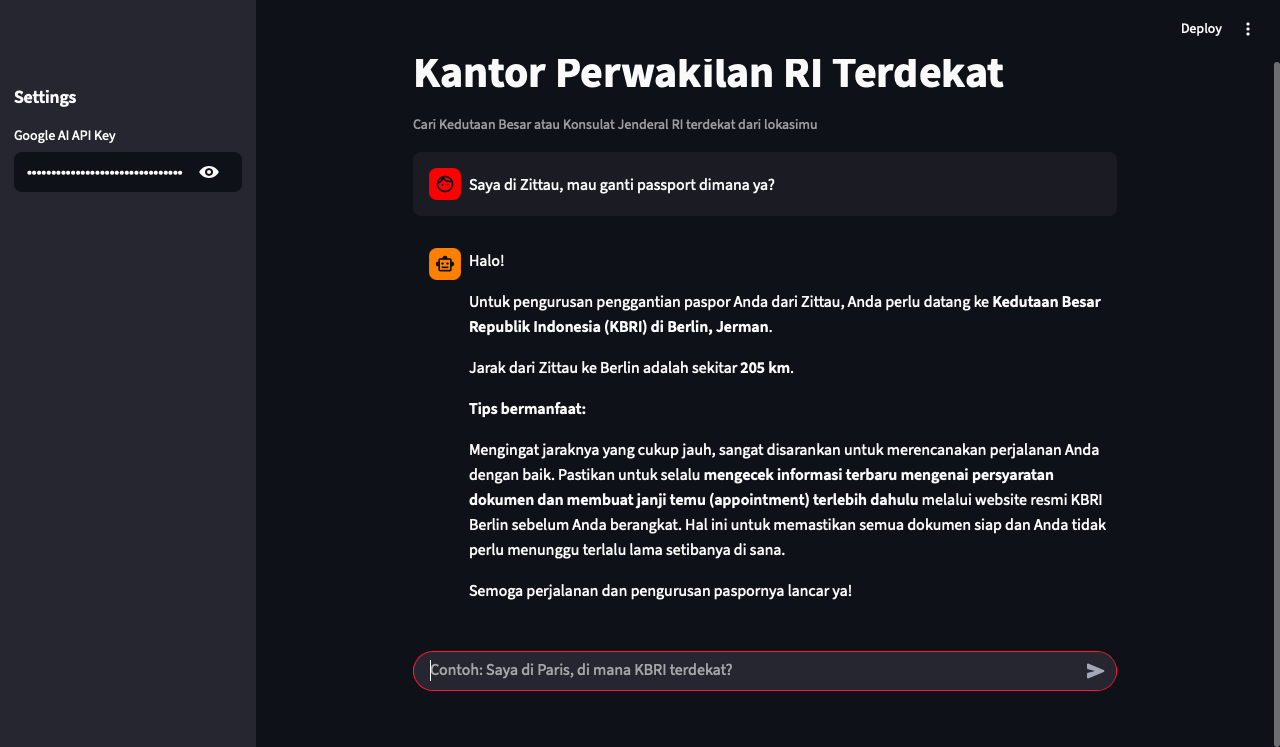
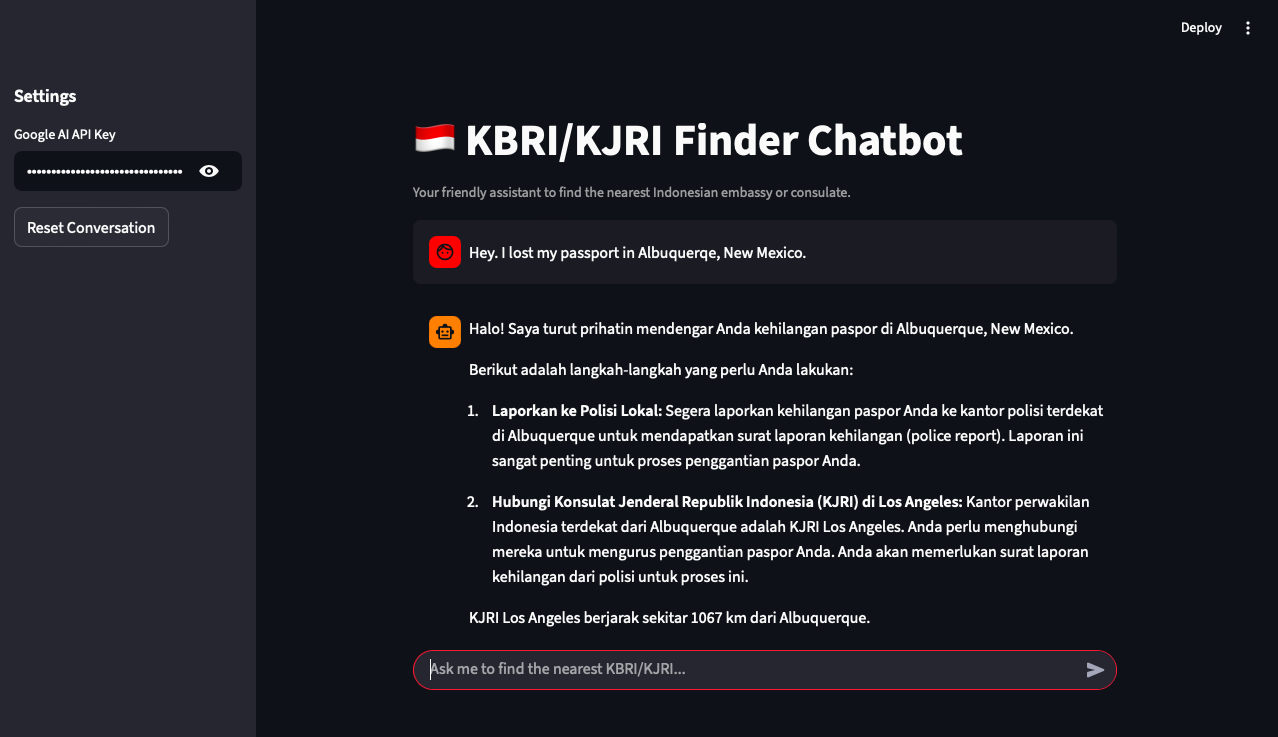
feat: add more data and fix bugs

diff --git a/streamlit_chat_app.py b/streamlit_chat_app.py
@@ -2,33 +2,23 @@
 import streamlit as st
 import pandas as pd
 from math import radians, sin, cos, sqrt, atan2
-from google import genai
+from langchain_google_genai import ChatGoogleGenerativeAI
+from langgraph.prebuilt import create_react_agent
+from langchain_core.messages import HumanMessage, AIMessage
+from langchain_core.tools import tool
 
 # --- 1. Page Configuration and Title ---
-
-st.title("Kantor Perwakilan RI Terdekat")
-st.caption("Cari Kedutaan Besar atau Konsulat Jenderal RI terdekat dari lokasimu")
+st.set_page_config(page_title="KBRI/KJRI Finder Chatbot", page_icon="🇮🇩")
+st.title("🇮🇩 KBRI/KJRI Finder Chatbot")
+st.caption("Your friendly assistant to find the nearest Indonesian embassy or consulate.")
 
 # --- 2. Sidebar for Settings ---
-
 with st.sidebar:
     st.subheader("Settings")
-    google_api_key = st.text_input("Google AI API Key", type="password")
+    google_api_key = st.text_input("Google AI API Key", type="password", key="google_api_key")
+    reset_button = st.button("Reset Conversation", key="reset_button")
 
-# --- 3. API Key and Client Initialization ---
-
-if not google_api_key:
-    st.info("Please add your Google AI API key in the sidebar to start chatting.", icon="🗝")
-    st.stop()
-
-try:
-    client = genai.Client(api_key=google_api_key)
-except Exception as e:
-    st.error(f"Invalid API Key: {e}")
-    st.stop()
-
-# --- 4. Data Loading ---
-
+# --- 3. Data Loading ---
 @st.cache_data
 def load_data():
     kbri_kjri_df = pd.read_csv("kbri_kjri_locations_with_coordinates.csv")
@@ -37,39 +27,51 @@ def load_data():
 
 kbri_kjri_df, world_cities_df = load_data()
 
-# --- 5. Core Logic ---
-
+# --- 4. Geolocation Tool ---
 def haversine(lat1, lon1, lat2, lon2):
     R = 6371  # Radius of Earth in kilometers
-
     lat1, lon1, lat2, lon2 = map(radians, [lat1, lon1, lat2, lon2])
-
     dlon = lon2 - lon1
     dlat = lat2 - lat1
-
     a = sin(dlat / 2)**2 + cos(lat1) * cos(lat2) * sin(dlon / 2)**2
     c = 2 * atan2(sqrt(a), sqrt(1 - a))
-
     distance = R * c
     return distance
 
-def find_nearest_kbri_kjri(user_prompt):
-    # Use Gemini to extract the city from the user's prompt
-    extraction_prompt = f"From the following text, extract only the city name and nothing else: \"{user_prompt}\""
+@tool
+def find_nearest_kbri_kjri(city_name: str):
+    """Finds the nearest Indonesian embassy (KBRI) or consulate (KJRI) from a given city."""
+    
+    # ✅ Better city matching - handle variations
+    city_search = city_name.lower().strip()
+    
+    # Try exact match first
+    user_city_data = world_cities_df[
+        world_cities_df["name"].str.lower() == city_search
+    ]
+    
+    # If no exact match, try contains (for partial matches)
+    if user_city_data.empty:
+        user_city_data = world_cities_df[
+            world_cities_df["name"].str.lower().str.contains(city_search, na=False)
+        ]
+    
+    # If still no match, try matching against country or admin (state) names
+    if user_city_data.empty:
+        # Look for the largest city in that state/region
+        user_city_data = world_cities_df[
+            (world_cities_df["admin_name"].str.lower().str.contains(city_search, na=False)) |
+            (world_cities_df["country"].str.lower().str.contains(city_search, na=False))
+        ].nlargest(1, 'population')  # Get the largest city
+    
+    if user_city_data.empty:
+        return f"Sorry, I couldn't find the city '{city_name}' in my database. Please try providing a major city name."
+    
     try:
-        response = client.models.generate_content(
-            model="gemini-2.5-flash",
-            contents=extraction_prompt
-        )
-        user_city = response.text.strip()
-    except Exception as e:
-        return f"An error occurred while extracting the city: {e}", None, None
-
-    try:
-        user_city_data = world_cities_df[world_cities_df["name"].str.lower() == user_city.lower()].iloc[0]
+        user_city_data = user_city_data.iloc[0]
         user_lat, user_lon = user_city_data["lat"], user_city_data["lng"]
-    except IndexError:
-        return f"Maaf, saya tidak dapat menemukan kota '{user_city}' dalam database saya.", None, None
+    except (IndexError, KeyError) as e:
+        return f"Sorry, I encountered an error finding coordinates for '{city_name}'."
 
     distances = []
     for index, row in kbri_kjri_df.iterrows():
@@ -77,52 +79,108 @@ def find_nearest_kbri_kjri(user_prompt):
         distances.append((row["City"], row["Country"], row["Type"], dist))
 
     distances.sort(key=lambda x: x[3])
-    nearest = distances[0]
-    return None, nearest, (user_lat, user_lon)
+    
+    # ✅ Return top 3 nearest offices for better context
+    top_3 = distances[:3]
+    result = f"The nearest Indonesian representative office is a {top_3[0][2]} in {top_3[0][0]}, {top_3[0][1]}, which is approximately {top_3[0][3]:.2f} km away."
+    
+    if len(top_3) > 1:
+        result += f"\n\nOther nearby offices:\n"
+        for i, (city, country, type, dist) in enumerate(top_3[1:], 2):
+            result += f"{i}. {type} in {city}, {country} ({dist:.2f} km)\n"
+    
+    return result
 
+@tool
+def extract_city_from_prompt(user_prompt: str):
+    """Extracts the city name from a user's prompt."""
+    extraction_prompt = f"From the following text, extract the most likely city name. If no city is mentioned, or if the location is ambiguous (like a state or an island), return the name of the largest city in that area. For example, if the user says 'Jersey', you should return 'Saint Helier'. If the user says 'New Jersey', you should return 'Newark'. Return only the city name and nothing else: \"{user_prompt}\""
+    response = client.models.generate_content(
+        model="gemini-2.5-flash",
+        contents=extraction_prompt
+    )
+    return response.text.strip()
+
+# --- 5. Agent Initialization ---
+if not google_api_key:
+    st.info("Please add your Google AI API key to start chatting.")
+    st.stop()
+
+if "agent" not in st.session_state or getattr(st.session_state, "_last_key", None) != google_api_key:
+    try:
+        llm = ChatGoogleGenerativeAI(model="gemini-2.5-flash", google_api_key=google_api_key, temperature=0.7)
+        tools = [find_nearest_kbri_kjri, extract_city_from_prompt]
+        st.session_state.agent = create_react_agent(llm, tools, prompt="""You are a helpful assistant for Indonesians abroad. Your goal is to help users find the nearest Indonesian embassy (KBRI) or consulate (KJRI).
+
+When a user asks for the nearest location, you should:
+1. Use the `extract_city_from_prompt` tool to extract the city from the user's query.
+2. Use the `find_nearest_kbri_kjri` tool with the extracted city name to find the nearest office.
+3. After getting the result from the tool, you should analyze it. If the nearest office is in a different country, you should also consider if there are other offices in the user's country that might be more convenient, even if they are slightly further away.
+4. Provide a helpful and informative response in Indonesian. You should clearly state the nearest office, but also provide information about other relevant offices if applicable.
+5. If the user mentions that they have lost their passport, you should provide general advice on what to do, such as contacting the local police and the nearest Indonesian representative office.
+""")
+        st.session_state._last_key = google_api_key
+        st.session_state.messages = []
+    except Exception as e:
+        st.error(f"Error initializing the agent: {e}")
+        st.stop()
 
 # --- 6. Chat History Management ---
-
-if "messages" not in st.session_state:
+if reset_button:
     st.session_state.messages = []
 
 # --- 7. Display Past Messages ---
-
 for msg in st.session_state.messages:
-    with st.chat_message(msg["role"]):
-        st.markdown(msg["content"])
+    st.chat_message(msg["role"]).markdown(msg["content"])
 
 # --- 8. Handle User Input ---
-
-prompt = st.chat_input("Contoh: Saya di Paris, di mana KBRI terdekat?")
-
-if prompt:
+if prompt := st.chat_input("Ask me to find the nearest KBRI/KJRI..."):
     st.session_state.messages.append({"role": "user", "content": prompt})
-    with st.chat_message("user"):
-        st.markdown(prompt)
-
-    error_message, nearest, user_coords = find_nearest_kbri_kjri(prompt)
-
-    if error_message:
-        answer = error_message
-    elif nearest:
-        city, country, type, dist = nearest
-        
-        # Use Gemini to generate a richer response
-        generation_prompt = f"You are a helpful assistant for Indonesians abroad. Based on the following information, generate a friendly and informative response in Indonesian. The user is in {prompt}. The nearest Indonesian representative office is a {type} in {city}, {country}, which is approximately {dist:.2f} km away. Provide the information clearly and maybe add a helpful tip about the location."
-        
-        try:
-            response = client.models.generate_content(
-                model="gemini-2.5-flash",
-                contents=generation_prompt
-            )
-            answer = response.text
-        except Exception as e:
-            answer = f"An error occurred while generating the response: {e}"
-    else:
-        answer = "Maaf, saya tidak dapat menemukan informasi yang Anda cari."
-
+    st.chat_message("user").markdown(prompt)
 
     with st.chat_message("assistant"):
-        st.markdown(answer)
+        with st.spinner("Thinking..."):
+            try:
+                messages = [HumanMessage(content=prompt)] if not st.session_state.messages else [HumanMessage(content=m["content"]) if m["role"] == "user" else AIMessage(content=m["content"]) for m in st.session_state.messages]
+                response = st.session_state.agent.invoke({"messages": messages})
+                ai_message = response["messages"][-1]
+                
+                # ✅ FIXED: Better content extraction
+                answer = ""
+                if hasattr(ai_message, 'content'):
+                    content = ai_message.content
+                    
+                    # If content is a list of parts
+                    if isinstance(content, list):
+                        for part in content:
+                            if isinstance(part, dict):
+                                # Only extract 'text' field, ignore 'extras'
+                                if 'text' in part:
+                                    answer += part['text']
+                            elif isinstance(part, str):
+                                answer += part
+                    
+                    # If content is a string
+                    elif isinstance(content, str):
+                        answer = content
+                    
+                    # If content is something else, convert to string
+                    else:
+                        answer = str(content)
+                
+                # Clean up any remaining metadata
+                if not answer or "signature" in answer.lower():
+                    # Fallback: try to get just the text portion
+                    if hasattr(ai_message, 'content') and isinstance(ai_message.content, list):
+                        texts = [p.get('text', '') for p in ai_message.content if isinstance(p, dict) and 'text' in p]
+                        answer = ' '.join(texts)
+
+                if not answer:
+                    answer = "Sorry, I encountered an error and could not generate a response."
+
+                st.markdown(answer)
+            except Exception as e:
+                st.error(f"An error occurred: {e}")
+                answer = "Sorry, I encountered an error."
+    
     st.session_state.messages.append({"role": "assistant", "content": answer})

diff --git a/README.md b/README.md
@@ -6,6 +6,13 @@ This is an AI-powered chatbot to help Indonesians abroad find the nearest Indone
 
 ![Chatbot Screenshot](ScreenShotKBRIchatbot.png)
 
+## Features Highlight
+- 🌍 Find nearest KBRI/KJRI from any location
+- 📍 Geolocation calculation using Haversine formula
+- 🤖 Natural language understanding powered by Gemini AI
+- 💬 Friendly responses in Indonesian
+- 📊 Database of 100+ Indonesian representative offices worldwide
+
 ### Prerequisites
 
 Ensure you have Python installed. It is recommended to use `miniconda` or `conda` for environment management.
